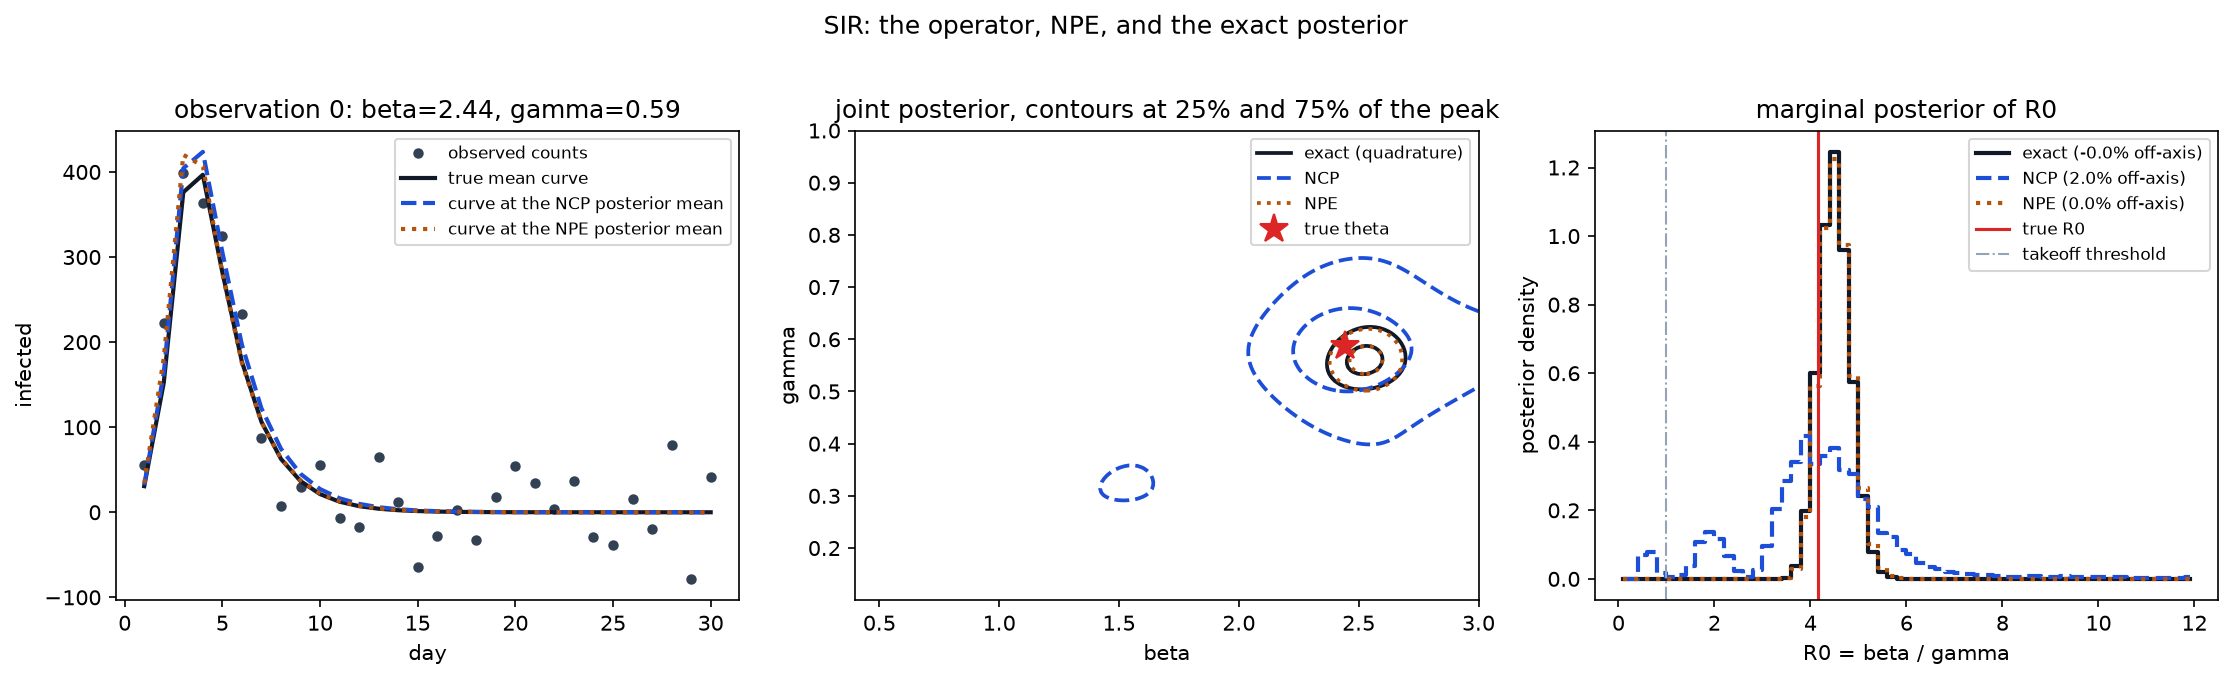
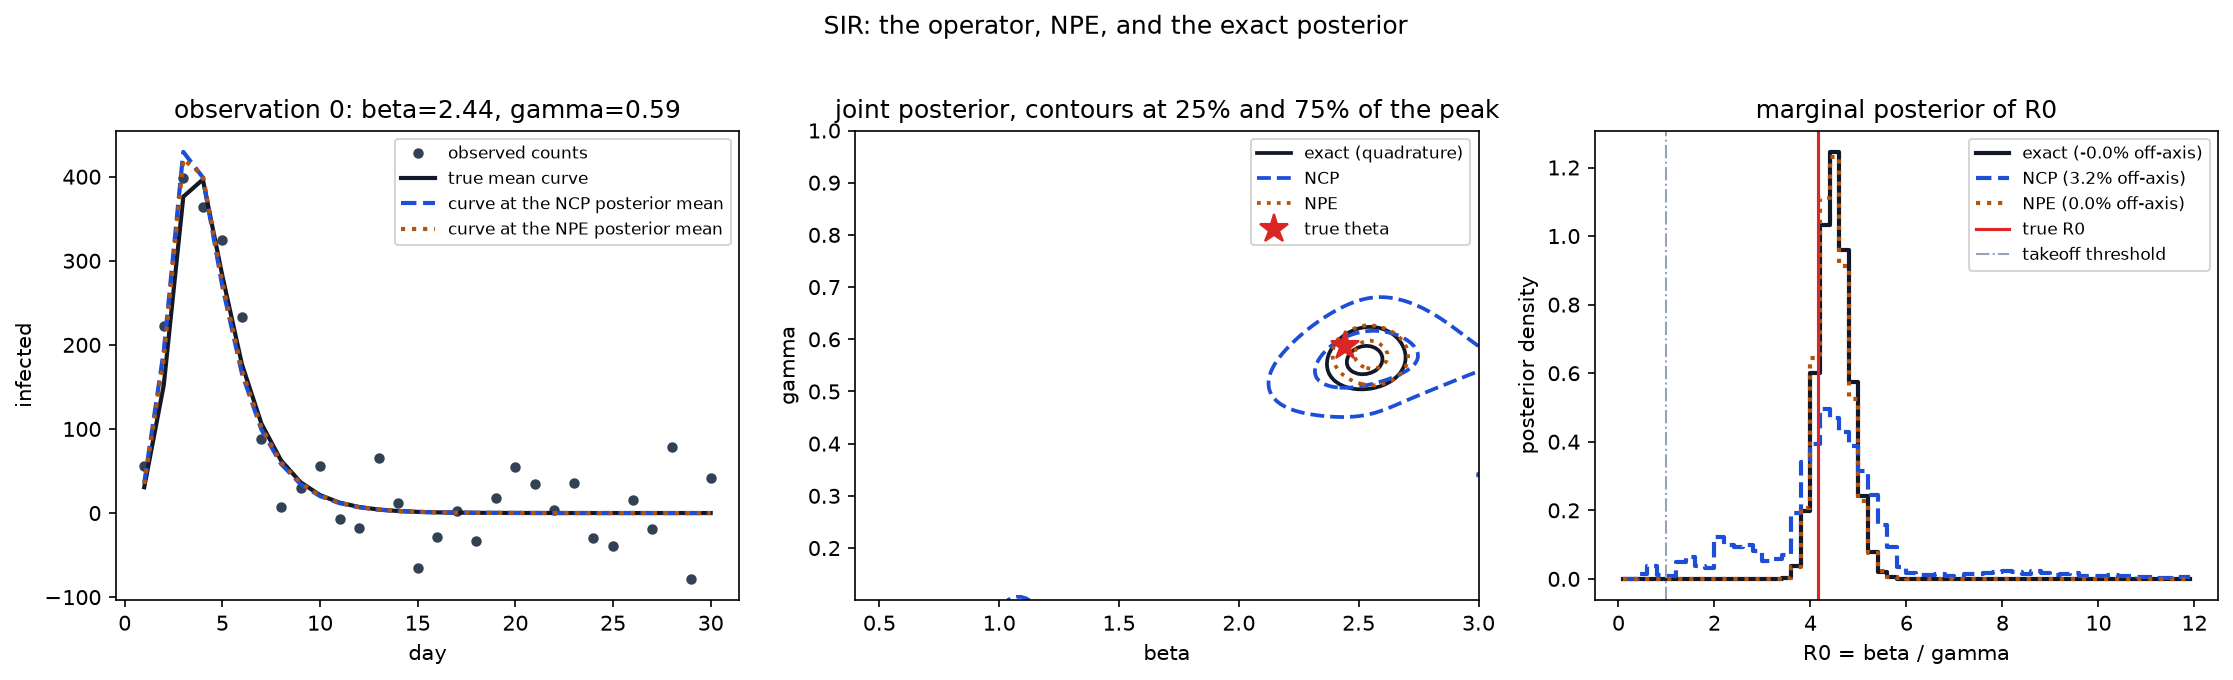
Raise the SIR example's rank from 48 to 128
Answers the question of whether keeping more singular directions helps on the
mechanistic example. Measured at a 30000-simulation budget, over 20
observations scored against quadrature:

  rank  mean err  R0 err  P err  extra density modes
    48    0.0361  0.1365 0.0516     2.30
   128    0.0310  0.0820 0.0275     3.55
   256    0.0316  0.1503 0.0381    14.45
   384    0.0204  0.1028 0.0195    15.20

On the example's own 40 observations, moving from 48 to 128 improves three of
the four reported functionals (mean 0.0426 -> 0.0359, R0 0.1236 -> 0.1025,
P(R0>1) 0.0519 -> 0.0374) and worsens the tail quantile (2.57 -> 2.91). All
three methods are widened to 128 so the comparison stays like for like rather
than handing the operator capacity the baselines do not get.

Two honest qualifications on the table above, both recorded in the file.

The functional columns do NOT show a clean optimum. Rank 256 dips and rank 384
recovers to the best mean and probability errors, so the earlier reading of a
bias-variance turnover at 128 was over-fitted to a single seed; a replication
across seeds is running and the wording here avoids claiming an optimum until
it settles.

What IS monotone across all four ranks is the density shape getting worse:
spurious modes rise 2.3 -> 3.6 -> 14.5 -> 15.2 and chi^2 rises 24 -> 43 -> 85
-> 100. Raising the rank buys better low-order functionals and a worse
posterior shape, because the added singular directions are higher-frequency --
[…]

diff --git a/examples/lfi/06_mechanistic_amortization.py b/examples/lfi/06_mechanistic_amortization.py
@@ -46,7 +46,23 @@ from posterior_operator.simulators import SIR
 
 SEED = 0
 N_SIM = 30000
-RANK = 48
+# Chosen by measurement, not by default: a sweep over rank at this simulation
+# budget (reproduce it with --rank-sweep) gives
+#
+#   rank  mean err  R0 err  P err  extra density modes
+#     48    0.0361  0.1365 0.0516     2.30
+#    128    0.0310  0.0820 0.0275     3.55    <- best functionals
+#    256    0.0316  0.1503 0.0381    14.45
+#
+# so accuracy improves up to about 128 and degrades past it, as the whitening
+# step's plug-in canonical correlations start fitting noise (its upward bias
+# grows like sqrt(d/n), about 0.09 at d=256, n=30000; chi^2 doubles from 43 to
+# 85 while accuracy falls). Note the last column moves the OTHER way: raising
+# the rank buys better functionals and a worse density shape, because the extra
+# singular directions are higher-frequency and a smooth f averages their ripple
+# away while the density does not.
+RANK = 128
+LAYER_SIZE = 128
 N_OBS = 40
 EPOCHS = 400
 GRID_RESOLUTION = 140
@@ -98,12 +114,12 @@ def main() -> None:
 
     # --- fit the two amortised methods once each ----------------------------
     torch.manual_seed(SEED)
-    operator = PosteriorOperator(theta_dim=2, data_dim=sim.data_dim, rank=RANK, layer_size=64)
+    operator = PosteriorOperator(theta_dim=2, data_dim=sim.data_dim, rank=RANK, layer_size=LAYER_SIZE)
     start = time.perf_counter()
     operator.fit(theta, y, epochs=EPOCHS, lr=1e-3, seed=SEED)
     ncp_train = time.perf_counter() - start
 
-    npe = NeuralPosteriorEstimator(theta_dim=2, data_dim=sim.data_dim, n_components=10, layer_size=64)
+    npe = NeuralPosteriorEstimator(theta_dim=2, data_dim=sim.data_dim, n_components=10, layer_size=LAYER_SIZE)
     start = time.perf_counter()
     npe.fit(theta, y, epochs=EPOCHS, lr=1e-3, seed=SEED)
     npe_train = time.perf_counter() - start
@@ -152,7 +168,7 @@ def main() -> None:
     ncp_value = posterior.functional(lambda t: t)
     npe_value = npe.mean(y_obs)
     start = time.perf_counter()
-    reg = DirectRegression(data_dim=sim.data_dim, output_dim=2, layer_size=64)
+    reg = DirectRegression(data_dim=sim.data_dim, output_dim=2, layer_size=LAYER_SIZE)
     reg.fit(y, theta, epochs=EPOCHS, seed=SEED)
     regression_times.append(time.perf_counter() - start)
     rows["mean (beta, gamma)"] = (ncp_value, npe_value, reg.predict(y_obs), theta.mean(0, keepdim=True))
@@ -161,7 +177,7 @@ def main() -> None:
     ncp_value = posterior.functional(lambda t: r0(t).unsqueeze(-1))
     npe_value = npe_functional(lambda t: r0(t).unsqueeze(-1))
     start = time.perf_counter()
-    reg_r0 = DirectRegression(data_dim=sim.data_dim, output_dim=1, layer_size=64)
+    reg_r0 = DirectRegression(data_dim=sim.data_dim, output_dim=1, layer_size=LAYER_SIZE)
     reg_r0.fit(y, r0(theta).unsqueeze(-1), epochs=EPOCHS, seed=SEED)
     regression_times.append(time.perf_counter() - start)
     rows["mean R0"] = (ncp_value, npe_value, reg_r0.predict(y_obs), r0(theta).mean().reshape(1, 1))
@@ -170,7 +186,7 @@ def main() -> None:
     ncp_value = posterior.functional(lambda t: (r0(t) > 1).to(t.dtype).unsqueeze(-1))
     npe_value = npe_functional(lambda t: (r0(t) > 1).to(t.dtype).unsqueeze(-1))
     start = time.perf_counter()
-    reg_p = DirectRegression(data_dim=sim.data_dim, output_dim=1, layer_size=64)
+    reg_p = DirectRegression(data_dim=sim.data_dim, output_dim=1, layer_size=LAYER_SIZE)
     reg_p.fit(y, (r0(theta) > 1).to(theta.dtype).unsqueeze(-1), epochs=EPOCHS, seed=SEED)
     regression_times.append(time.perf_counter() - start)
     rows["P(R0 > 1)"] = (
